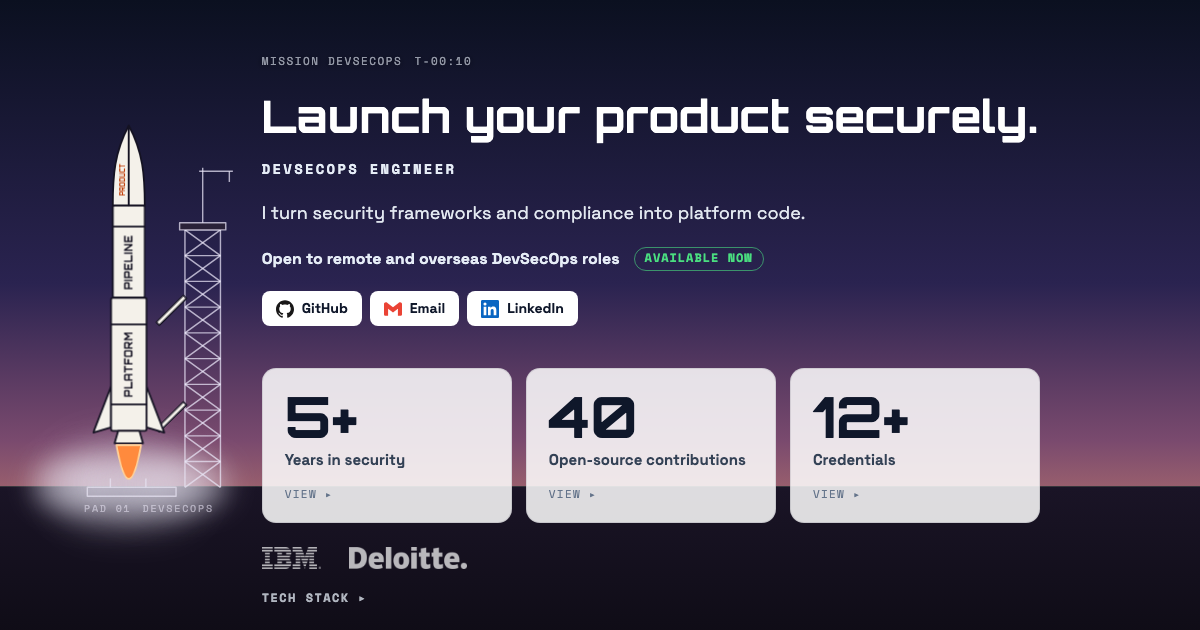
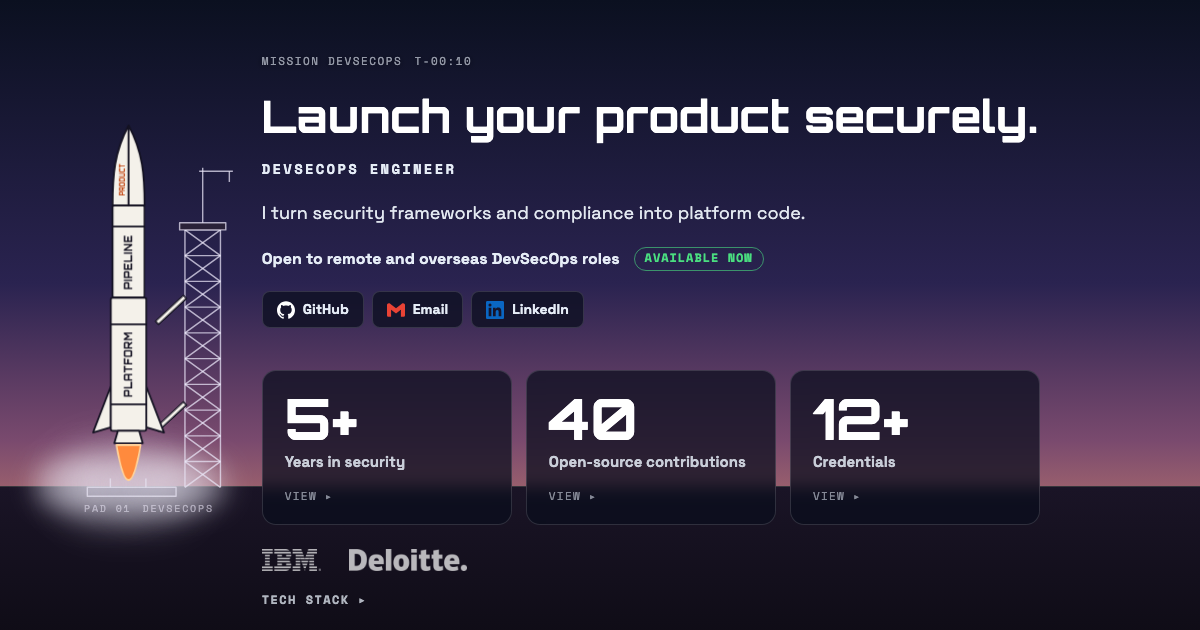
fix(launch): review pass across the page
- Hero stat cards and contact buttons use the dark panel of the stage
  cards; the GitHub mark turns white; og:image retaken.
- On phones the in-flight callout is a one-line bar under the HUD, so it
  no longer covers the text in the middle of the screen.
- Operate's support line now matches the cards it has left.
- Details from the removed field-mission cards move into the Career
  bullets (IBM EU CRA and ISMS-P work, Deloitte ISO 27001 and digital
  signature audits, Army CERT training platform, CTF win and audit).
- Remove 17 CSS classes nothing uses anymore.

Claude-Session: https://claude.ai/code/session_011tCtx6HPPMVjdVwgWrdedY

diff --git a/src/styles/launch.css b/src/styles/launch.css
@@ -611,9 +611,11 @@ html[data-bright] .meter a::before {
   align-items: center;
   gap: 8px;
   padding: 7px 14px;
+  border: 1px solid var(--panel-line);
   border-radius: 8px;
-  background: #fff;
-  color: #0f172a;
+  background: var(--panel);
+  color: #e6edf7;
+  backdrop-filter: blur(8px);
   font-size: 14px;
   font-weight: 600;
   text-decoration: none;
@@ -621,6 +623,7 @@ html[data-bright] .meter a::before {
 }
 .hero-contact-link:hover {
   transform: translateY(-1px);
+  border-color: rgb(255 255 255 / 0.35);
 }
 .hero-contact-icon {
   width: 18px;
@@ -629,6 +632,24 @@ html[data-bright] .meter a::before {
 .hero-stats {
   grid-template-columns: repeat(3, minmax(0, 1fr));
   margin-top: 4px;
+}
+/* On the night sky the hero cards and buttons use the same dark panel as
+   the stage cards, instead of the summary's light cards. */
+.hero-stats .stat-card {
+  border-color: var(--panel-line);
+  background: var(--panel);
+  color: #fff;
+  backdrop-filter: blur(8px);
+}
+.hero-stats .stat-card:hover {
+  border-color: rgb(255 255 255 / 0.35);
+  box-shadow: 0 10px 24px rgb(0 0 0 / 0.35);
+}
+.hero-stats .stat-label {
+  color: rgb(230 237 247 / 0.85);
+}
+.hero-stats .stat-open {
+  color: rgb(230 237 247 / 0.55);
 }
 @media (max-width: 767px) {
   /* narrow column: one compact row per stat */
@@ -856,9 +877,6 @@ html[data-daylight] .co-card-go {
   text-transform: uppercase;
   text-shadow: 0 1px 8px rgb(0 0 0 / 0.35);
 }
-.log-zone-line {
-  display: none;
-}
 /* what the zone means, next to its name */
 .log-zone-blurb {
   flex: 1;
@@ -1014,13 +1032,6 @@ html[data-daylight] .co-card-go {
   text-decoration-color: currentColor;
 }
 
-.summary-zone {
-  margin: 10px 0 2px;
-  color: #64748b;
-  font: 700 10px var(--font-space-mono), monospace;
-  letter-spacing: 0.12em;
-  text-transform: uppercase;
-}
 
 /* ---------- summary: teaser tiles, detail in dialogs ---------- */
 
@@ -1042,16 +1053,6 @@ html[data-daylight] .co-card-go {
 .timeline > li {
   position: relative;
   padding-bottom: 32px;
-}
-.tl-keywords {
-  color: #64748b;
-  font-weight: 400;
-}
-.edu-row {
-  display: flex;
-  flex-wrap: wrap;
-  justify-content: space-between;
-  gap: 2px 12px;
 }
 .timeline > li:last-child {
   padding-bottom: 0;
@@ -1102,112 +1103,7 @@ html[data-daylight] .co-card-go {
   font-weight: 600;
 }
 
-/* open-source contributions: collapsed headline cards, expandable */
-.oss-grid {
-  display: grid;
-  grid-auto-flow: dense; /* an opened, full-width entry leaves no holes */
-  gap: 12px;
-  margin: 0;
-  padding: 0;
-  list-style: none;
-}
-@media (min-width: 768px) {
-  .oss-grid {
-    grid-template-columns: repeat(2, minmax(0, 1fr));
-  }
-}
 @media (min-width: 1280px) {
-  .oss-grid {
-    grid-template-columns: repeat(3, minmax(0, 1fr));
-  }
-}
-.oss-entry {
-  border: 1px solid rgb(15 23 42 / 0.1);
-  border-radius: 10px;
-  background: rgb(255 255 255 / 0.6);
-}
-/* an opened entry spans the whole row so its detail has room */
-.oss-entry:has(details[open]) {
-  grid-column: 1 / -1;
-}
-.oss-entry summary {
-  display: flex;
-  flex-direction: column;
-  gap: 4px;
-  padding: 14px 34px 14px 16px;
-  position: relative;
-  cursor: pointer;
-  list-style: none;
-}
-.oss-entry summary::-webkit-details-marker {
-  display: none;
-}
-.oss-entry summary::after {
-  content: "▸";
-  position: absolute;
-  right: 14px;
-  top: 14px;
-  color: #94a3b8;
-  transition: transform 0.2s ease;
-}
-.oss-entry details[open] summary::after {
-  transform: rotate(90deg);
-}
-.oss-name {
-  color: #0f172a;
-  font-size: 15px;
-  font-weight: 700;
-}
-.oss-summary {
-  margin-top: 6px;
-  padding-top: 8px;
-  border-top: 1px solid rgb(15 23 42 / 0.08);
-}
-.oss-summary,
-.oss-tags {
-  color: #64748b;
-  font: 400 10px var(--font-space-mono), monospace;
-  letter-spacing: 0.1em;
-  text-transform: uppercase;
-}
-.oss-headline {
-  color: #0f172a;
-  font-size: 17px;
-  font-weight: 600;
-  line-height: 1.3;
-}
-.oss-entry summary:hover .oss-headline {
-  text-decoration: underline;
-  text-decoration-thickness: 1px;
-  text-underline-offset: 3px;
-}
-.oss-body {
-  padding: 0 16px 16px;
-  border-top: 1px solid rgb(15 23 42 / 0.08);
-}
-.oss-about {
-  margin: 12px 0 0;
-  color: #64748b;
-  font-size: 13px;
-}
-.oss-contribs {
-  display: flex;
-  flex-direction: column;
-  gap: 10px;
-  margin: 10px 0 0;
-  padding: 0;
-  list-style: none;
-}
-.oss-contribs li {
-  display: grid;
-  grid-template-columns: minmax(0, 1fr);
-  gap: 4px;
-}
-@media (min-width: 768px) {
-  .oss-contribs li {
-    grid-template-columns: 6.75rem minmax(0, 1fr);
-    gap: 2px 12px;
-  }
 }
 /* one status style for every state; the label carries the meaning */
 .oss-status {
@@ -1222,41 +1118,6 @@ html[data-daylight] .co-card-go {
   letter-spacing: 0.08em;
   text-transform: uppercase;
   white-space: nowrap;
-}
-.oss-work {
-  color: #334155;
-  font-size: 14px;
-  line-height: 1.5;
-}
-.oss-links {
-  font-size: 13px;
-}
-@media (min-width: 768px) {
-  .oss-links {
-    grid-column: 2;
-  }
-}
-.orbit .oss-links a {
-  text-decoration: underline;
-  text-decoration-thickness: 1px;
-  text-decoration-color: rgb(15 23 42 / 0.3);
-  text-underline-offset: 3px;
-}
-.tl-detail {
-  margin: 6px 0 4px;
-  color: #475569;
-  font-size: 14px;
-  line-height: 1.5;
-}
-.side-list {
-  display: flex;
-  flex-direction: column;
-  gap: 8px;
-  margin: 0;
-  padding: 0;
-  list-style: none;
-  font-size: 14px;
-  line-height: 1.45;
 }
 
 .contact {
@@ -1604,11 +1465,6 @@ html[data-stage="orbit"] .hud-wrap {
   flex-wrap: wrap;
   column-gap: 1.1em;
 }
-.oss-links {
-  display: flex;
-  flex-wrap: wrap;
-  column-gap: 14px;
-}
 .chips {
   display: inline-flex;
   flex-wrap: wrap;
@@ -1653,13 +1509,6 @@ html[data-stage="orbit"] .hud-wrap {
   display: inline-block;
   margin-right: 2px;
   vertical-align: 1px;
-}
-.bullets .oss-links {
-  display: flex;
-  flex-wrap: wrap;
-  column-gap: 14px;
-  margin-top: 2px;
-  font-size: 13px;
 }
 
 /* detail dialogs: light, centered on desktop, bottom sheet on phones */
@@ -1711,23 +1560,8 @@ html[data-stage="orbit"] .hud-wrap {
   background: #fff;
   color: #0f172a;
 }
-.sheet .oss-grid {
-  grid-template-columns: minmax(0, 1fr);
-}
-@media (min-width: 768px) {
-  .sheet .oss-grid {
-    grid-template-columns: repeat(2, minmax(0, 1fr));
-  }
-}
 .sheet a {
   color: #1e293b;
-}
-.sheet .oss-links a,
-.sheet .oss-about a {
-  text-decoration: underline;
-  text-decoration-thickness: 1px;
-  text-decoration-color: rgb(15 23 42 / 0.3);
-  text-underline-offset: 3px;
 }
 @media (max-width: 767px) {
   .sheet {
@@ -1867,6 +1701,36 @@ html[data-stage="orbit"] .hud-wrap {
   overflow-wrap: anywhere; /* last resort for one long word in a narrow column */
   font-weight: 700;
   line-height: 1.2;
+}
+/* Phones: the column is too narrow to keep the callout clear of the text,
+   so it becomes a one-line bar pinned under the HUD. */
+@media (max-width: 767px) {
+  .flight-callout {
+    left: 12px;
+    right: 12px;
+    top: 50px;
+    bottom: auto;
+    display: flex;
+    align-items: baseline;
+    gap: 10px;
+    max-width: none;
+    padding: 6px 12px;
+    transform: translateY(-6px);
+  }
+  .flight-callout::before {
+    display: none;
+  }
+  .flight-callout-title {
+    flex: none;
+    font-size: 10px;
+  }
+  .flight-callout-text {
+    margin: 0;
+    overflow: hidden;
+    font-size: 13px;
+    text-overflow: ellipsis;
+    white-space: nowrap;
+  }
 }
 .flight-callout[data-state="caution"],
 .flight-callout[data-state="resolved"] {

diff --git a/src/data/portfolio.ts b/src/data/portfolio.ts
@@ -191,7 +191,7 @@ export const stages: Stage[] = [
     },
     governing: "I make running systems observable, and cheap enough to keep defending.",
     support:
-      "Per-outcome L402 metrics for Lightning Labs' Aperture, a tamper-evident audit trail, and controls I cut when they cost more than they protected.",
+      "Per-outcome L402 metrics and a security event proposal for Lightning Labs' Aperture, plus 28 cloud security checks in Prowler.",
     flightRules: [
       { label: "MITRE ATT&CK", slug: "palantir-ads" },
       { label: "CACAO", slug: "cacao-playbook" },
@@ -456,10 +456,10 @@ export const career = [
     org: "IBM Consulting Korea",
     logo: "ibm",
     bullets: [
-      "Led a product security maturity assessment and roadmap aligned with the EU Cyber Resilience Act, presented to C-level leadership",
+      "Led EU Cyber Resilience Act supply-chain assessments and roadmaps for a nuclear power company and a heavy-equipment maker, presented to C-level leadership",
       "Designed and deployed iDMZ and OT security across heavy-equipment, nuclear, and semiconductor sites",
       "Built detection logic and monitoring use cases with IBM's global OT SOC",
-      "Assessed AWS environments against ISMS-P",
+      "Assessed AWS environments for ISMS-P certification of a real-estate and a shared-office service, and built a Prowler-based assessment tool for consultants",
     ],
   },
   {
@@ -469,8 +469,8 @@ export const career = [
     org: "Deloitte Consulting Korea",
     logo: "deloitte",
     bullets: [
-      "Ran an ISO 27001 certification audit: gap analysis, control effectiveness, remediation validation",
-      "Assessed a digital signature and certificate service: cryptographic controls, access, key lifecycle",
+      "Ran an ISO 27001 certification audit for a global IoT service: gap analysis, control effectiveness, remediation validation",
+      "Audited Korean authentication services built on digital signatures: cryptographic controls, access, key lifecycle",
       "Drafted Appendices 2–3 of the Digital Signature Certification Service Evaluation Guide v1.4.0",
       "Reviewed AWS architecture and controls against compliance frameworks",
     ],
@@ -497,6 +497,9 @@ export const career = [
       "Selected for the Army's Elite 300 Cyber Warriors",
       "Tuned Splunk dashboards and detection rules, cutting false positives",
       "Ran first-line incident response: evidence, interviews, timelines, reports",
+      "Built a SIEM learning platform for new recruits and an assistant for writing Splunk SPL queries",
+      "Won the Ground Operations Command incident response CTF",
+      "Went through an internal security audit by the Defense Counterintelligence Command",
       "2nd place in a cybersecurity education competition with a web-based awareness game",
     ],
   },

diff --git a/docs/portfolio-spec.md b/docs/portfolio-spec.md
@@ -136,6 +136,7 @@ English only.
 | v1.33 | Field Missions removed from every stage (and the zone itself); career work lives only in the Career dialog; Design's support line drops the IBM reference |
 | v4 | Portfolio promoted to / (indexed, in the sitemap); the old blog home moves to /blog/ and the blog header, breadcrumbs and back links point there; /launch redirects to / on Vercel with the query kept (?for=lightning-labs still works) |
 | v4.1 | Second review: hero shows one title (DevSecOps / Platform Engineer), the claim, 'Open to remote and overseas ... roles' + Available now, GitHub/Email/LinkedIn (and resume when present) buttons, the stat cards (moved from the summary), IBM and Deloitte logos, and the tech stack behind a toggle; zone labels read plain first (Personal projects / Open source) with the metaphor small; og:image + Twitter card |
+| v4.2 | Review pass: dark hero cards and buttons; phone alert becomes a one-line bar under the HUD; Operate support line matches its cards; career details from the removed field missions folded into Career; unused CSS removed |
 | v2 | Satellite becomes a button that opens the assistant panel (drawer on desktop, sheet on mobile) with reviewed chip answers, a disabled input, privacy note, and "How this assistant is secured"; the summary gets an "Ask the satellite" button |
 | v3 | Live free-form questions (OpenRouter, rate limits, serverless route) |
 | v4 | Promote to `/`, move blog home to `/posts` |
